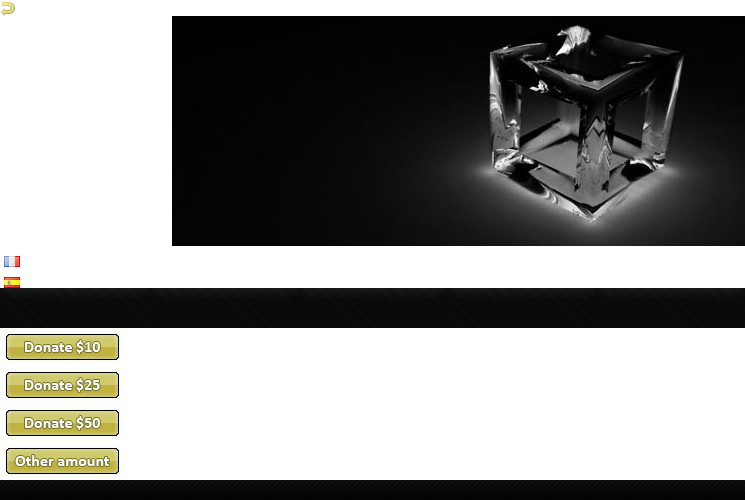
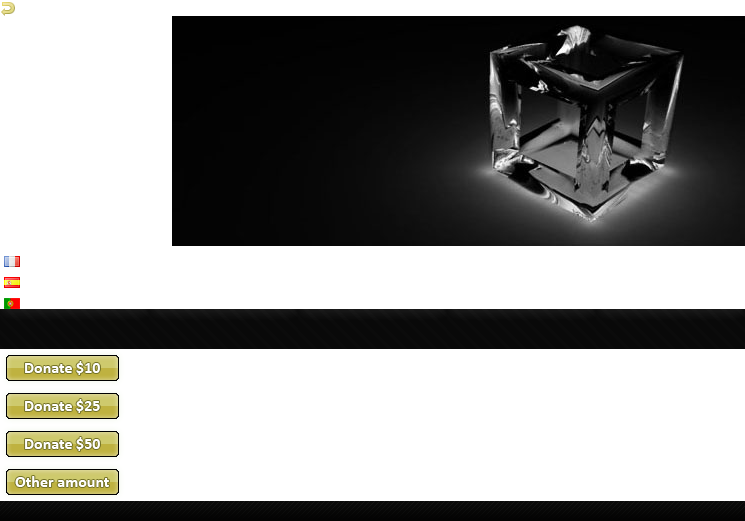
Portuguese translattion of the website.

diff --git a/doc/website/css/default-sprite.css b/doc/website/css/default-sprite.css
@@ -163,6 +163,10 @@ code strong,
   background-image: url('../img/vert.png');
   background-position: left -267px;
 }
+.other-language.pt {
+  background-image: url('../img/vert.png');
+  background-position: left -288px;
+}
 
 /* Menu */
 ul.menu {
@@ -177,7 +181,7 @@ ul.menu li {
   margin: 0;
   background-color: #000;
   background-image: url('../img/vert.png');
-  background-position: left -288px;
+  background-position: left -309px;
   background-repeat: repeat-x;
 	border-right: 1px solid #222;
 	border-top: 1px solid #1A1A1A;
@@ -281,28 +285,28 @@ div.build-info {
 
 #donate-10 {
   background-image: url('../img/vert.png');
-  background-position: left -328px;
+  background-position: left -349px;
 }
 
 #donate-25 {
   background-image: url('../img/vert.png');
-  background-position: left -366px;
+  background-position: left -387px;
 }
 
 #donate-50 {
   background-image: url('../img/vert.png');
-  background-position: left -404px;
+  background-position: left -425px;
 }
 
 #donate-other {
   background-image: url('../img/vert.png');
-  background-position: left -442px;
+  background-position: left -463px;
 }
 
 .item {
   background-color: #030303;
   background-image: url('../img/vert.png');
-  background-position: left -480px;
+  background-position: left -501px;
 	background-repeat: repeat-x;
 	padding: 8px 10px;
 }

diff --git a/doc/website/index.html b/doc/website/index.html
@@ -13,6 +13,7 @@
   <div class="gfx">
     <a class="other-language fr" href="http://www.traduction.cc/traduction/Documentation-SmartSprites-8.html">French version</a>
     <a class="other-language es" href="http://www.cctranslations.org/smartsprites.php">Spanish version</a>
+    <a class="other-language pt" href="https://www.homeyou.com/~edu/o-que-e-o-smartsprites">Portuguese version</a>
     <h1><span id="smart">Smart</span>Sprites<span id="alpha"> (Alpha!)</span></h1>
     <h2><span id="css-sprite-gen">CSS Sprite Generator</span> <span id="done-right">Done Right</span></h2>
   </div>
@@ -1236,6 +1237,13 @@ sprite-image: url('../sprite.png?<strong>${md5}</strong>')</code>
       <p>
         If you have specific questions, problems or feature ideas for SmartSprites, please
         visit the <a href="http://groups.google.com/group/smartsprites-css-sprite-generator">SmartSprites CSS Sprite Generator Users and Developers group</a>.
+      </p>
+
+      <h1>Translations</h1>
+
+      <p>
+        <a href="https://www.homeyou.com/~edu/o-que-e-o-smartsprites">Translation into Portuguese</a> of this website was kindly donated by 
+        <a href="https://www.homeyou.com/~edu/">Artur Weber</a>.
       </p>
     </div>
   </div>

diff --git a/doc/website/css/default.css b/doc/website/css/default.css
@@ -160,6 +160,9 @@ code strong,
 .other-language.es {
   background-image: url(../img/es.png); /** sprite-ref: vert; sprite-margin-top: 10px; sprite-margin-left: 4px; */
 }
+.other-language.pt {
+  background-image: url(../img/pt.png); /** sprite-ref: vert; sprite-margin-top: 10px; sprite-margin-left: 4px; */
+}
 
 /* Menu */
 ul.menu {
